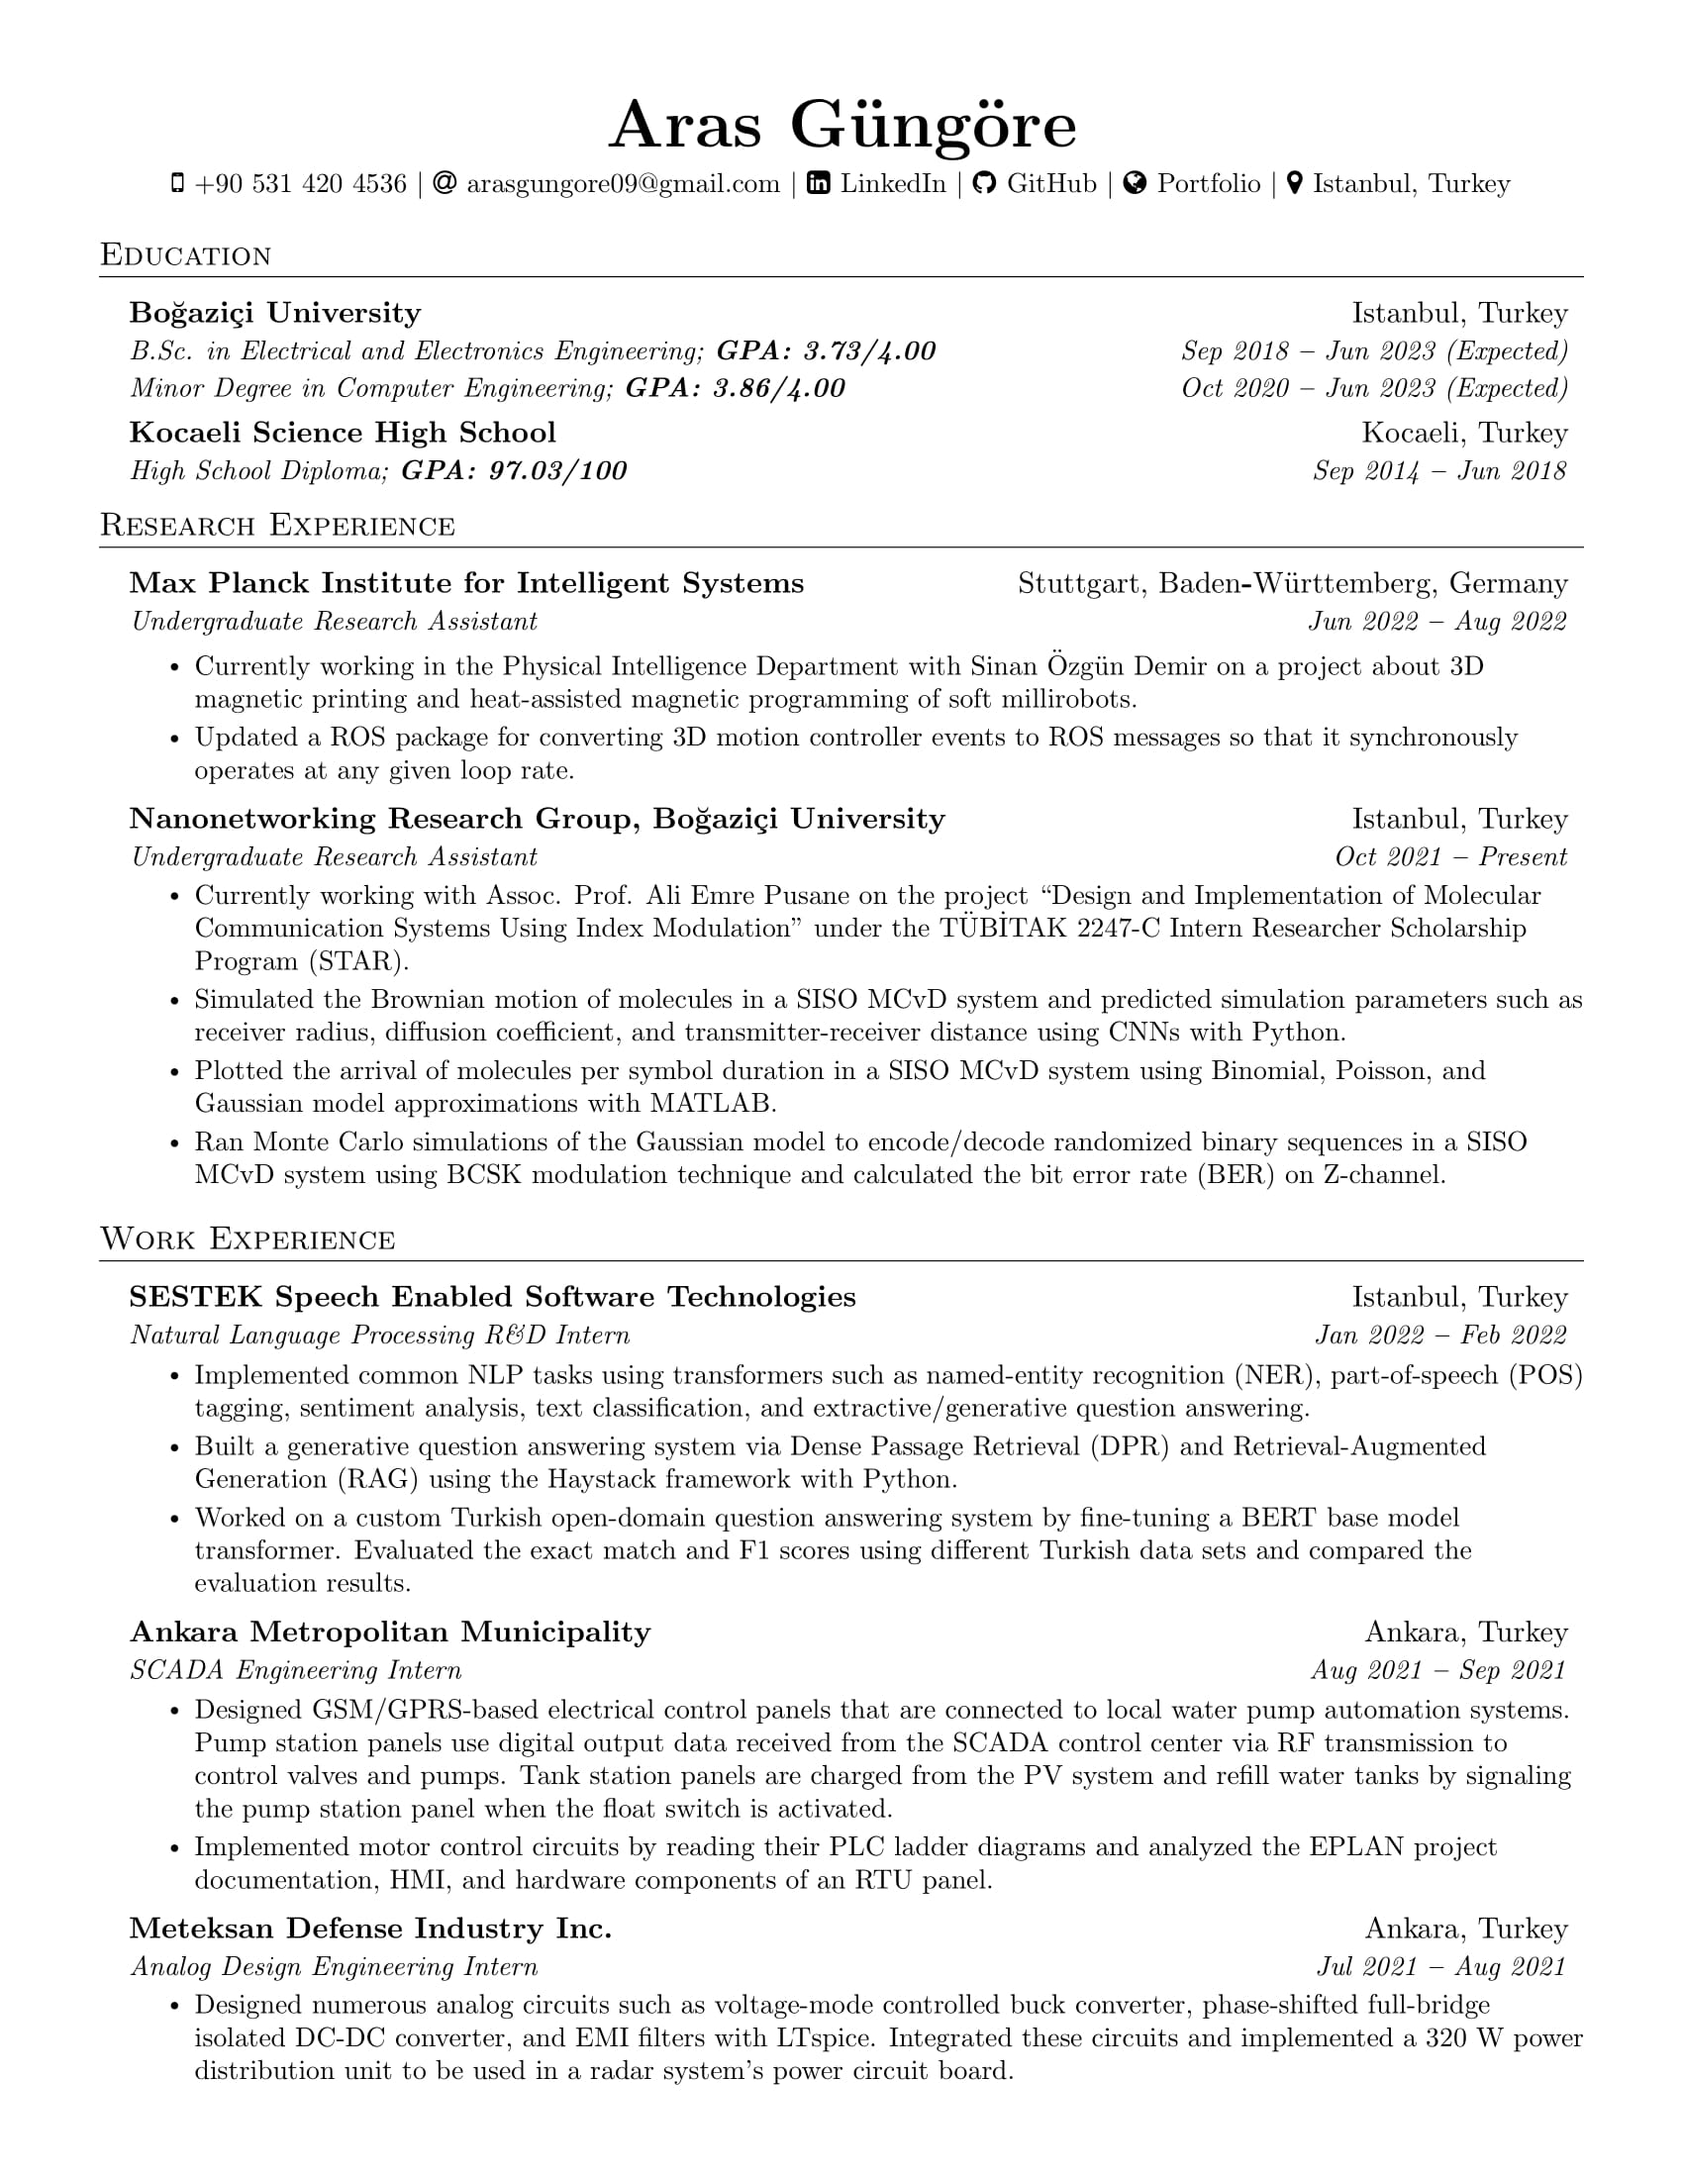
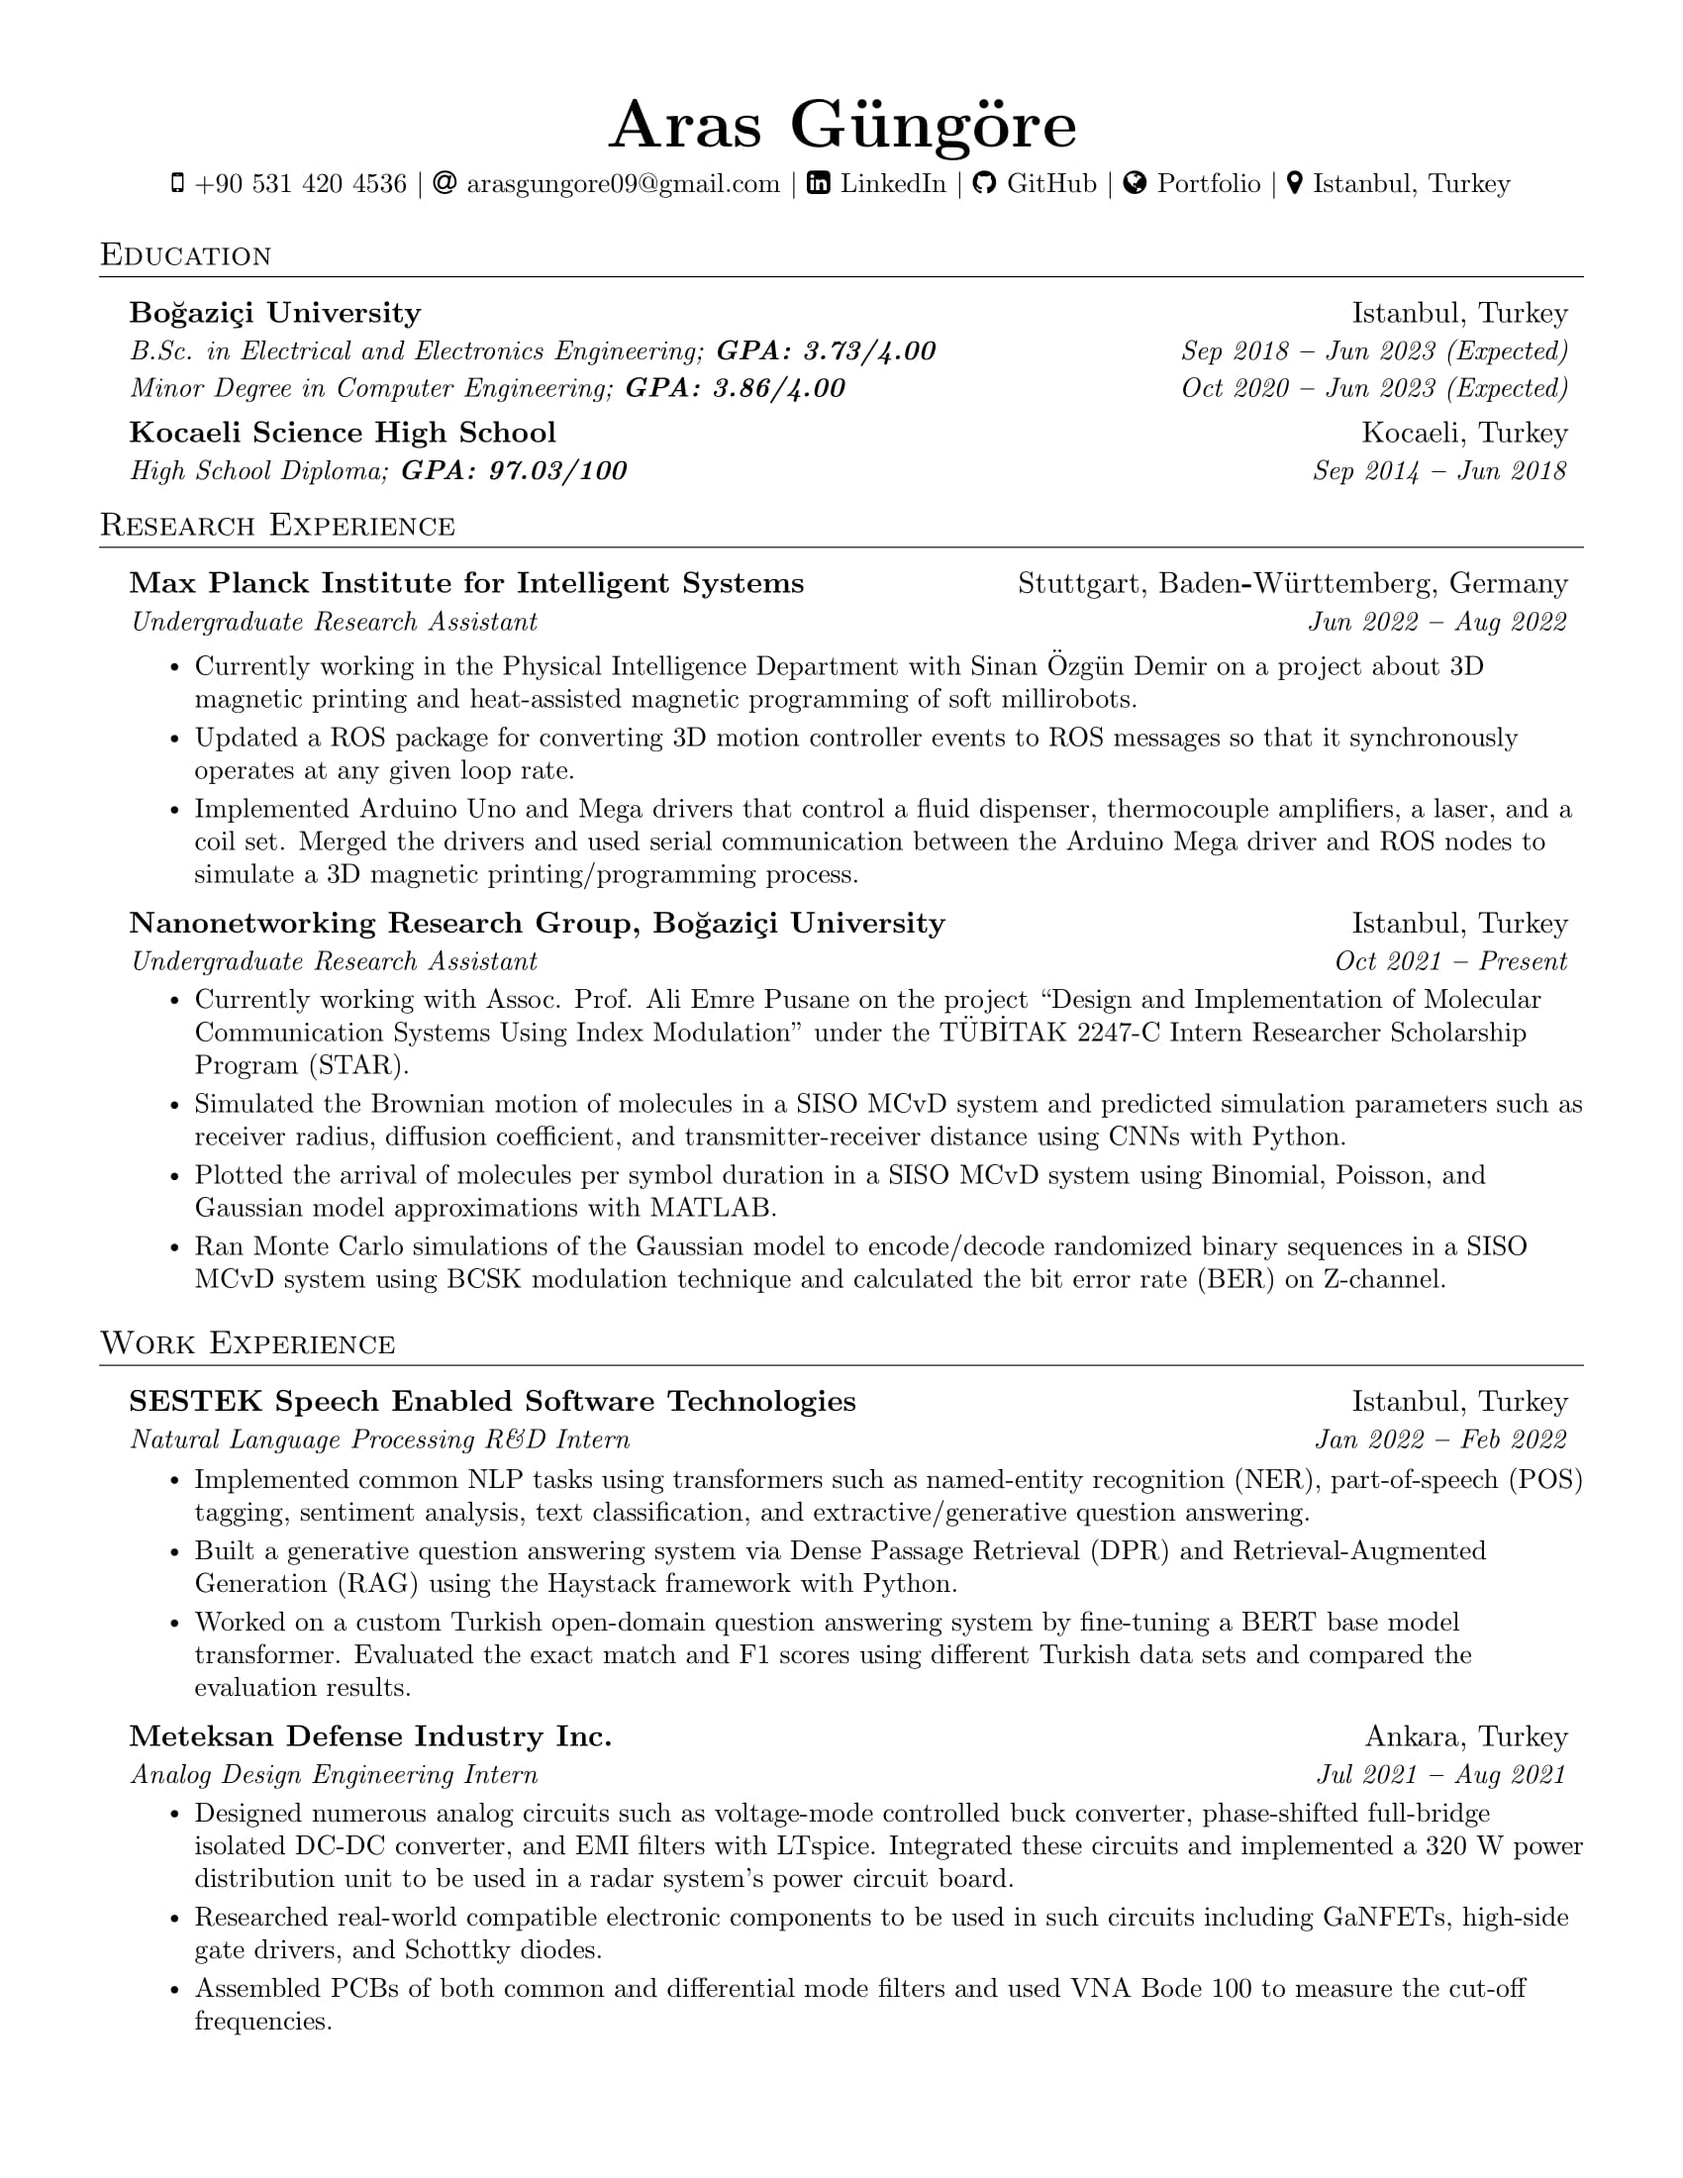
Updated CV

Changed region(s): [[0.0624, 0.3709, 0.9353, 0.9582]]

diff --git a/main.tex b/main.tex
@@ -187,6 +187,7 @@
         \resumeItemListStart
             \resumeItem{Currently working in the Physical Intelligence Department with Sinan Özgün Demir on a project about 3D magnetic printing and heat-assisted magnetic programming of soft millirobots.}
             \resumeItem{Updated a ROS package for converting 3D motion controller events to ROS messages so that it synchronously operates at any given loop rate.}
+            \resumeItem{Implemented Arduino Uno and Mega drivers that control a fluid dispenser, thermocouple amplifiers, a laser, and a coil set. Merged the drivers and used serial communication between the Arduino Mega driver and ROS nodes to simulate a 3D magnetic printing/programming process.}
         \resumeItemListEnd
     
     \resumeSubheading
@@ -218,14 +219,15 @@
             \resumeItem{Worked on a custom Turkish open-domain question answering system by fine-tuning a BERT base model transformer. Evaluated the exact match and F1 scores using different Turkish data sets and compared the evaluation results.}
         \resumeItemListEnd
     
-    \resumeSubheading
-      {Ankara Metropolitan Municipality}{Ankara, Turkey}
-      {SCADA Engineering Intern}{Aug 2021 \textbf{--} Sep 2021}
-        \resumeItemListStart
-            \resumeItem{Designed GSM/GPRS-based electrical control panels that are connected to local water pump automation systems. Pump station panels use digital output data received from the SCADA control center via RF transmission to control valves and pumps. Tank station panels are charged from the PV system and refill water tanks by signaling the pump station panel when the float switch is activated.}
-            \resumeItem{Implemented motor control circuits by reading their PLC ladder diagrams and analyzed the EPLAN project documentation, HMI, and hardware components of an RTU panel.}
-        \resumeItemListEnd
-    
+    % \resumeSubheading
+      % {Ankara Metropolitan Municipality}{Ankara, Turkey}
+      % {SCADA Engineering Intern}{Aug 2021 \textbf{--} Sep 2021}
+        % \resumeItemListStart
+            % \resumeItem{Designed GSM/GPRS-based electrical control panels that are connected to local water pump automation systems. Pump station panels use digital output data received from the SCADA control center via RF transmission to control valves and pumps. Tank station panels are charged from the PV system and refill water tanks by signaling the pump station panel when the float switch is activated.}
+            % \resumeItem{Implemented motor control circuits by reading their PLC ladder diagrams and analyzed the EPLAN project documentation, HMI, and hardware components of an RTU panel.}
+        % \resumeItemListEnd
+
+    % \vspace{15pt}
     \resumeSubheading
       {Meteksan Defense Industry Inc.}{Ankara, Turkey}
       {Analog Design Engineering Intern}{Jul 2021 \textbf{--} Aug 2021}
